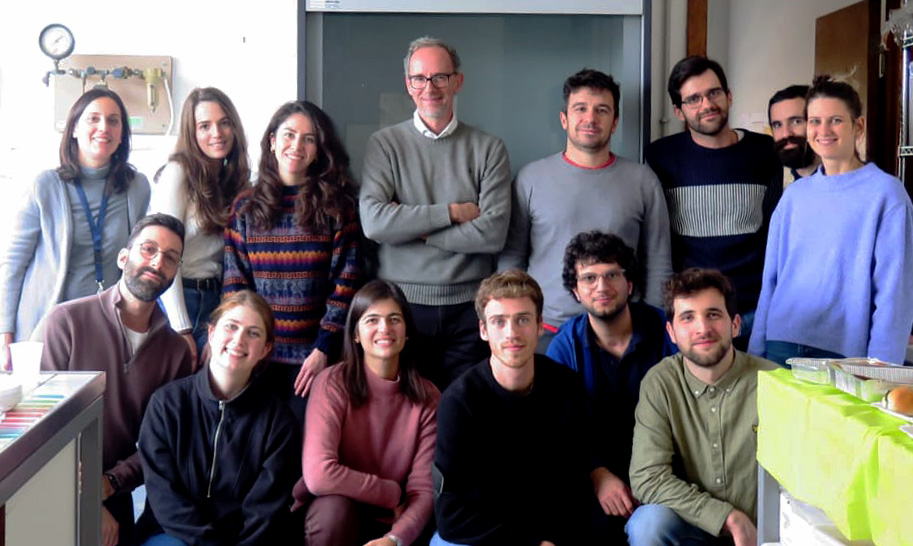
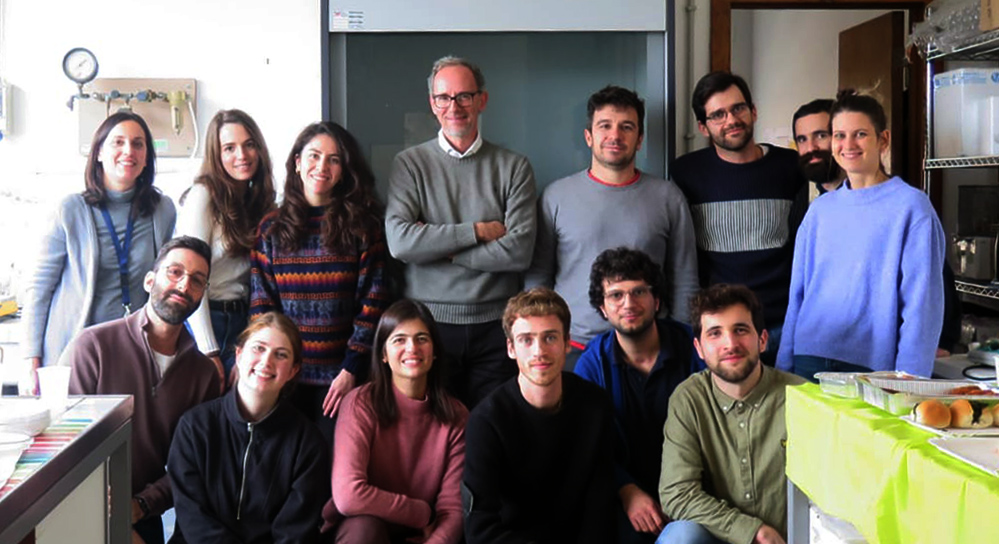
v0.2

diff --git a/content/home/image.md b/content/home/image.md
@@ -26,6 +26,6 @@ design:
     text_color_light: true
   spacing:
     padding: ["0", "0", "0", "0"]
-# advanced:
-#  css_class: fullscreen
+advanced:
+ css_class: fullscreen
 ---
